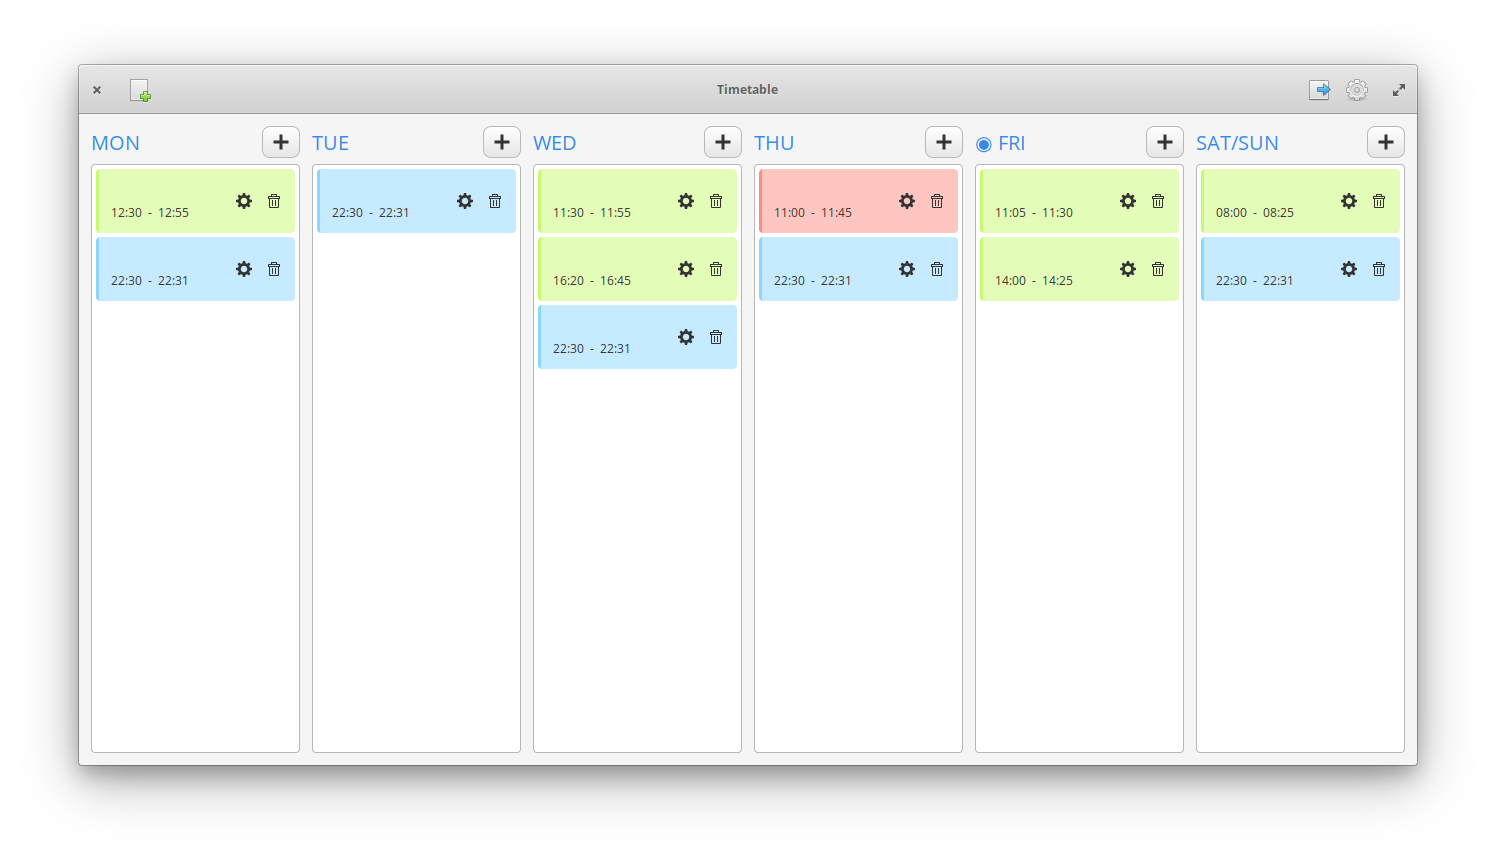
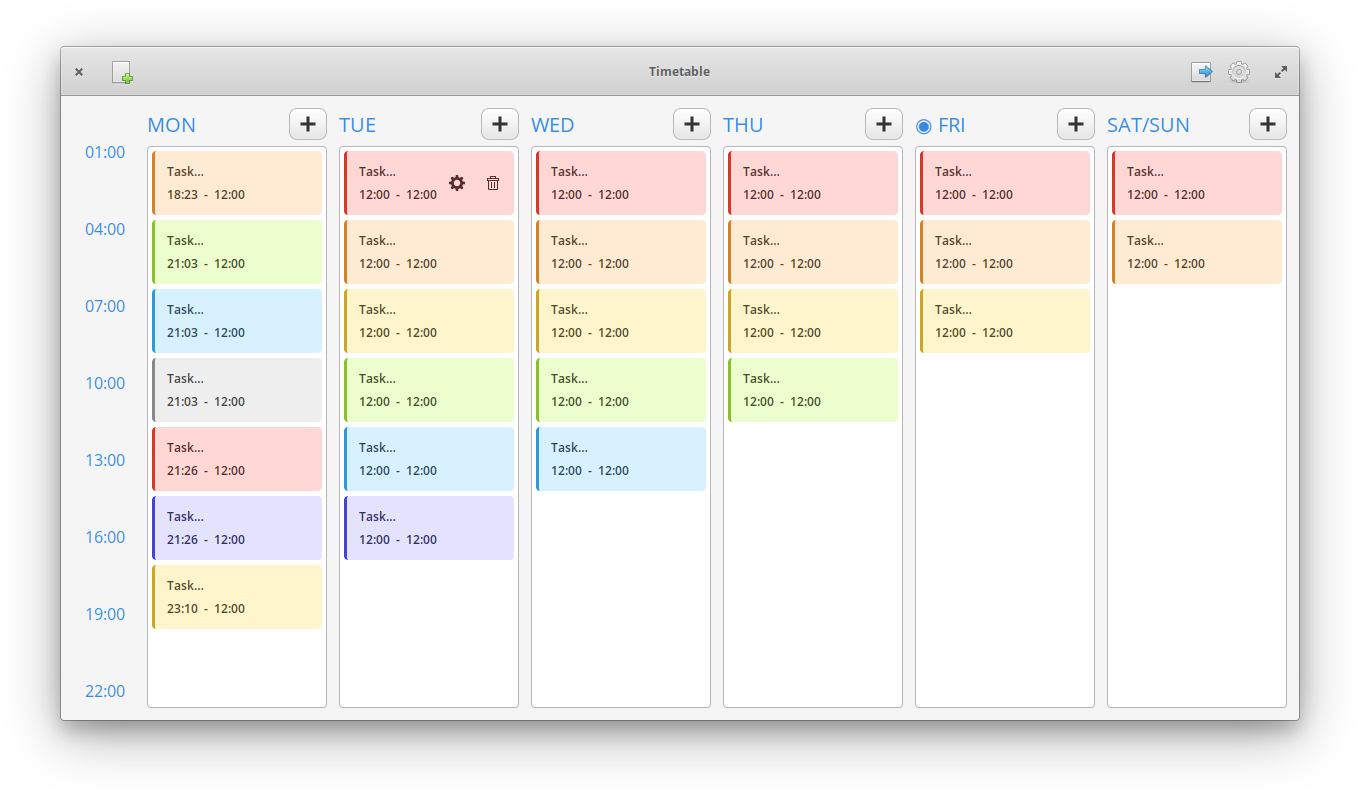
* - add hour column to guide tasks hours in the day // fix sorting tasks

diff --git a/data/stylesheet.css b/data/stylesheet.css
@@ -8,6 +8,14 @@
     color: #7ab1ee;
 }
 
+.tt-label-time {
+    font-size: 1.33em;
+    color: #3689e6;
+}
+.tt-label-time:backdrop {
+    color: #7ab1ee;
+}
+
 .tt-column {
     background-color: shade (@bg_color, 1.05);
     border: 1px solid alpha(#000, 0.25);
